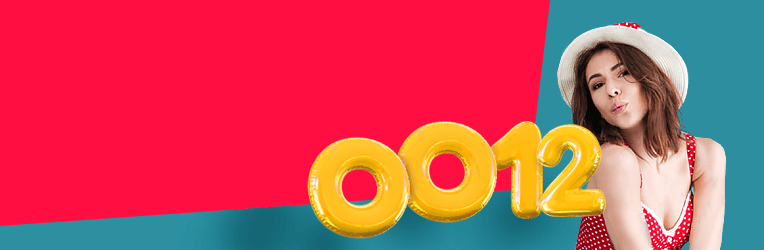
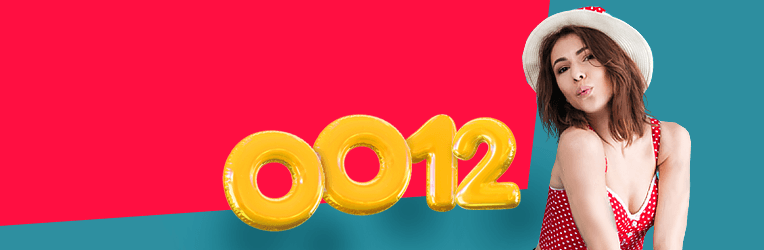
1

diff --git a/home3/src/App.vue b/home3/src/App.vue
@@ -560,26 +560,26 @@ export default {
 
 
       mainSlides: [{
-        sliderImg: "https://logunoveugene.github.io/home/img/mainslides/1.png",
+        sliderImg: "https://logunoveugene.github.io/home3/img/mainslides/1.png",
         sliderName: "Рассрочка без переплат",
         sliderSub:"Тысячи товаров в рассрочку без переплат",
         sliderButton: "Смотреть",
         sliderButtonStyle: "btn-secondary"
 
       }, {
-        sliderImg: "https://logunoveugene.github.io/home/img/mainslides/2.png",
+        sliderImg: "https://logunoveugene.github.io/home3/img/mainslides/2.png",
         sliderName: "Студент лови момент",
         sliderSub:"Скидки на товары для учебы и работы",
         sliderButton: "Смотреть",
         sliderButtonStyle: "btn-secondary"
       }, {
-        sliderImg: "https://logunoveugene.github.io/home/img/mainslides/3.png",
+        sliderImg: "https://logunoveugene.github.io/home3/img/mainslides/3.png",
         sliderName: "Соленья варенья",
         sliderSub:"Тысячи товаров в рассрочку без переплат",
         sliderButton: "Смотреть",
         sliderButtonStyle: "btn-secondary"
       }, {
-        sliderImg: "https://logunoveugene.github.io/home/img/mainslides/4.png",
+        sliderImg: "https://logunoveugene.github.io/home3/img/mainslides/4.png",
         sliderName: "Задари всех",
         sliderSub:"Тысячи товаров в рассрочку без переплат",
         sliderButton: "Смотреть",
